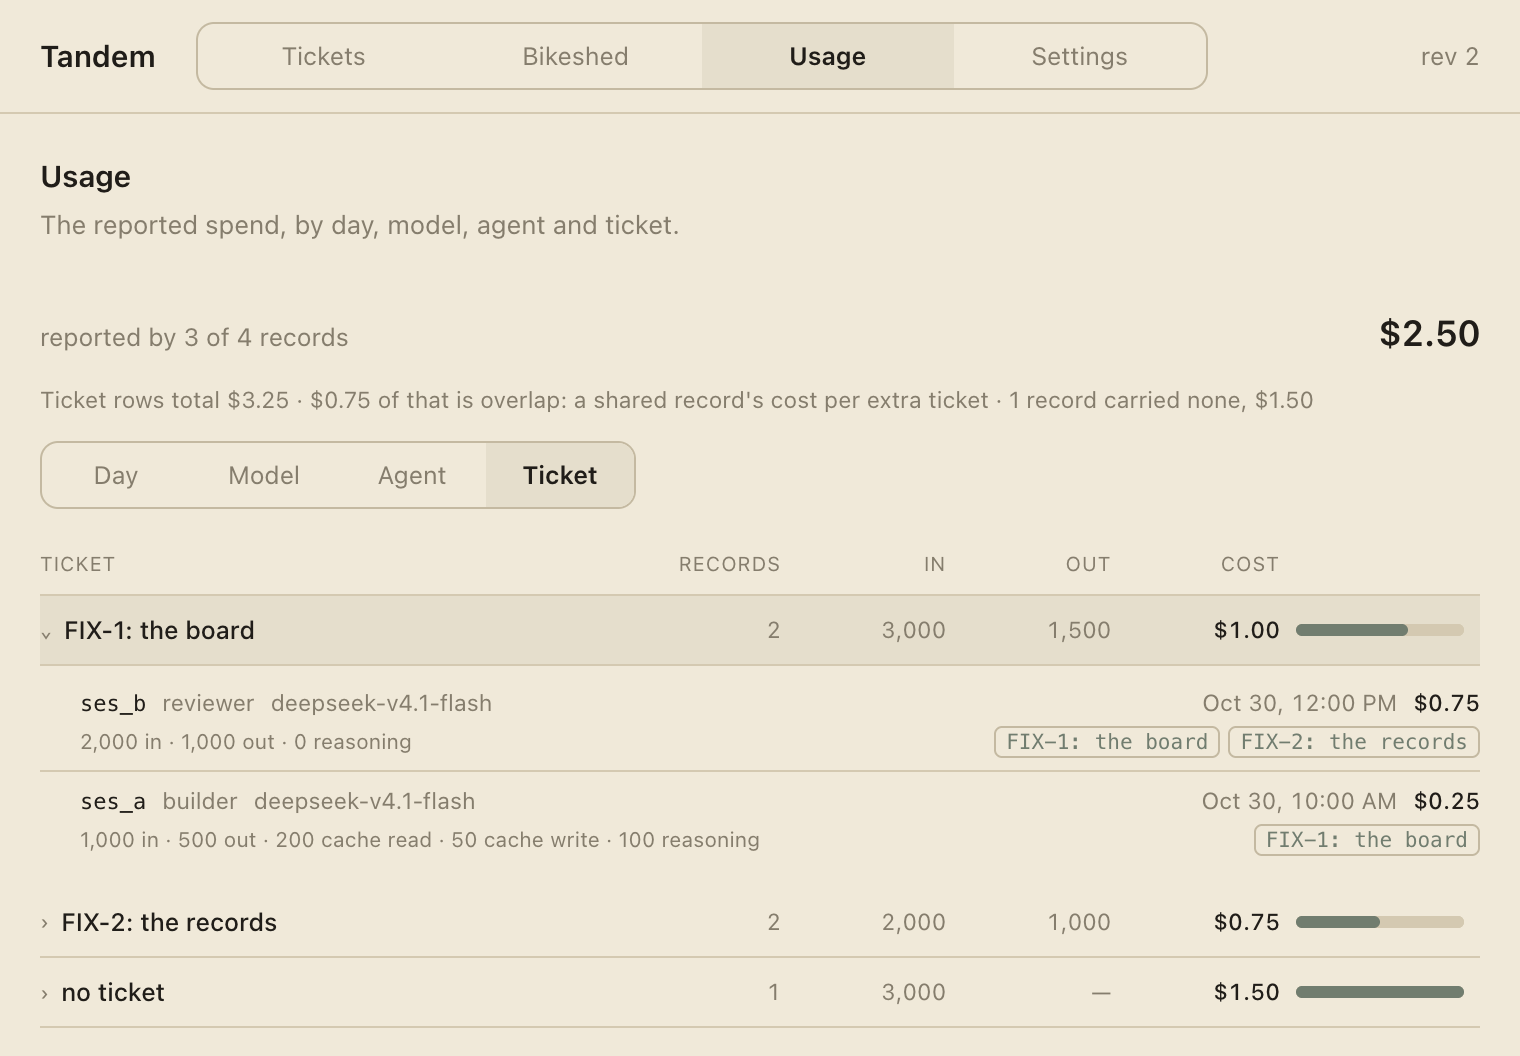
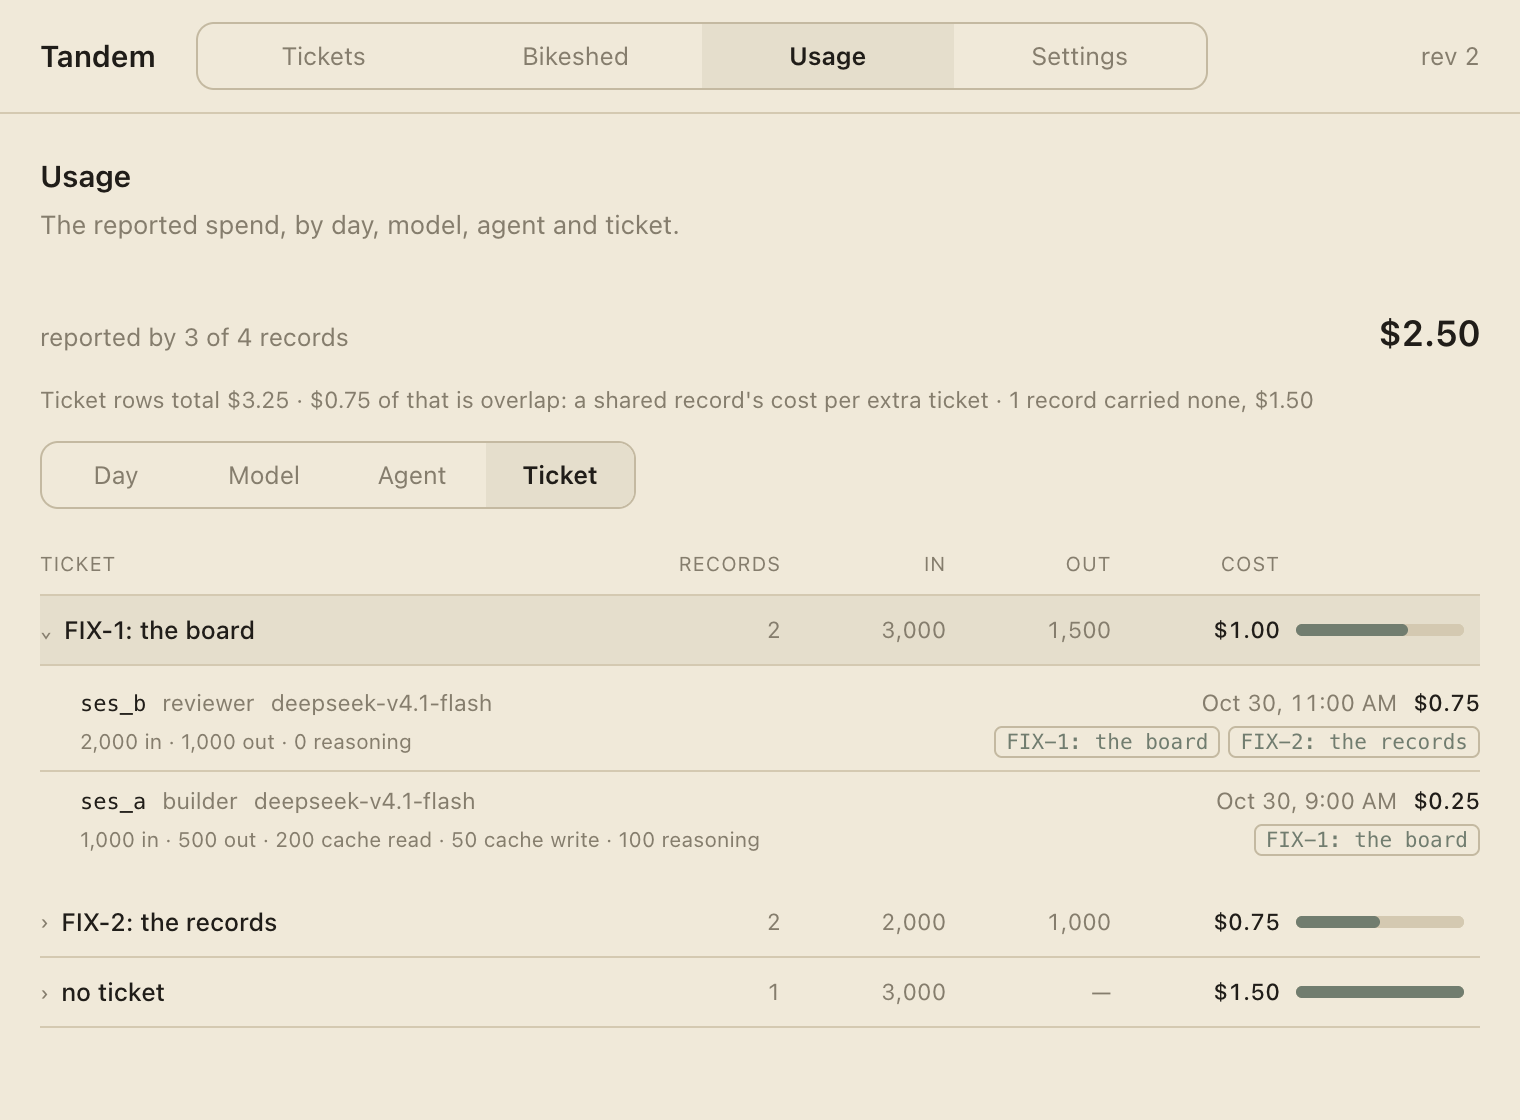
feat(shots): the Usage and Settings faces are scenes
PRT-15 and PRT-16 are on the merged base, so the surfaces the ticket names are
reachable and they get a spec and a committed picture each: the Usage face with
the ticket dimension and a row rolled down to the records behind it, and the
Settings face with the seeded paths and the doctor's eight checks. The shell
keeps its scene. Both specs assert what the picture shows, and the run rewrites
`usage-face.png` and writes `settings-face.png`.

A face taller than the window is laid out at its own height and shot whole, so
the Settings picture is the whole face rather than its first screenful.

Left to their tickets: the Tickets face (list and board, PRT-13), the ticket
sheet (PRT-17), and the Bikeshed face (tree, editor, health, PRT-14).

diff --git a/app/tests/shots/settings.shots.ts b/app/tests/shots/settings.shots.ts
@@ -1,0 +1,44 @@
+import { expect } from '@playwright/test'
+
+import { capture, openTab, test } from '../../shots/app'
+import { scene } from '../../shots/scenes'
+
+/**
+ * The Settings face a human reads: the machine's paths (the seeded home and
+ * the seeded user home's three hosts), the one theme rule, and the setup
+ * report's eight checks with their state.
+ *
+ * The paths are the seed's own, at the one fixed scratch root, so the picture
+ * is the same in any checkout. What the rule pins is that they are the seed's
+ * paths, never a human's.
+ */
+test('the settings face, over the seeded homes', async ({ app, window }) => {
+  await openTab(window, 'settings')
+
+  await expect(window.locator('.face__title')).toHaveText('Settings')
+  await expect(window.locator('.settings__heading')).toHaveText(['Paths', 'Setup'])
+
+  const facts = window.locator('.settings__fact')
+  await expect(facts.first()).toContainText('Home')
+  await expect(facts.first().locator('.settings__value')).toHaveText(/\/tmp\/tandem-shots\/Home$/)
+  await expect(facts.nth(1).locator('.settings__value')).toHaveText(/\/tmp\/tandem-shots\/Home\/bikeshed$/)
+
+  await expect(window.locator('.settings__term')).toHaveText([
+    'Home',
+    'Bikeshed',
+    'opencode',
+    'claude',
+    'agents',
+    'Theme',
+  ])
+  await expect(facts.nth(2).locator('.settings__value')).toHaveText(
+    /\/tmp\/tandem-shots\/user\/\.config\/opencode$/,
+  )
+  await expect(facts.nth(3).locator('.settings__value')).toHaveText(/\/tmp\/tandem-shots\/user\/\.claude$/)
+  await expect(facts.nth(4).locator('.settings__value')).toHaveText(/\/tmp\/tandem-shots\/user\/\.agents$/)
+
+  await expect(window.locator('.settings__checks').first().locator('.settings__check')).toHaveCount(8)
+  await expect(window.locator('.settings__action')).toHaveText(/^(Install|Repair)$/)
+
+  await capture(app, window, scene('settings'))
+})

diff --git a/app/tests/shots/usage.shots.ts b/app/tests/shots/usage.shots.ts
@@ -1,0 +1,38 @@
+import { expect } from '@playwright/test'
+
+import { capture, openTab, test } from '../../shots/app'
+import { scene } from '../../shots/scenes'
+
+/**
+ * The Usage face a human reads: the spend the records reported, the arithmetic
+ * the ticket rows carry, and one ticket row rolled down to the records behind
+ * it. Every figure is the report's own over the fixture home.
+ */
+test('the usage face, with a ticket row rolled down', async ({ app, window }) => {
+  await openTab(window, 'usage')
+
+  await expect(window.locator('.face__title')).toHaveText('Usage')
+  await expect(window.locator('.usage__coverage')).toHaveText(/^reported by \d+ of \d+ records$/)
+  await expect(window.locator('.usage__spend')).toHaveText(/^\$\d+\.\d{2}$/)
+
+  const picker = window.locator('.usage__segment')
+  await expect(picker).toHaveText(['Day', 'Model', 'Agent', 'Ticket'])
+  await expect(window.locator('.usage__table thead th').first()).toHaveText('DAY')
+
+  await window.locator('.usage__segment', { hasText: 'Ticket' }).click()
+  await expect(window.locator('.usage__table thead th').first()).toHaveText('TICKET')
+
+  const rows = window.locator('.usage__row')
+  await expect(rows.first()).toBeVisible()
+  const tickets = rows.filter({ hasNotText: 'No ticket' })
+  await expect(tickets.first()).toBeVisible()
+
+  await tickets.first().locator('.usage__label').click()
+
+  const roll = window.locator('.usage__roll')
+  await expect(roll).toBeVisible()
+  await expect(roll.locator('.usage__session').first()).toHaveText(/^ses_/)
+  await expect(roll.locator('.usage__record').first()).toContainText(/\d+ in/)
+
+  await capture(app, window, scene('usage'))
+})

diff --git a/app/shots/scenes.ts b/app/shots/scenes.ts
@@ -6,6 +6,9 @@
  * so a picture and its row cannot drift. A face adds its scene here and its
  * spec beside `tests/shots/`; the same run then writes both the PNG and the
  * README row.
+ *
+ * A kept surface whose ticket has not landed is not listed: a picture of a face
+ * frame is not a picture of the face. The list grows as the faces do.
  */
 export type Scene = {
   id: string
@@ -19,6 +22,18 @@ export const SCENES: readonly Scene[] = [
     file: 'electron-shell.png',
     description:
       'the shell at its 760 pt floor: the wordmark, the four kept tabs (Tickets, Bikeshed, Usage, Settings) and the store revision read over `rpc`',
+  },
+  {
+    id: 'usage',
+    file: 'usage-face.png',
+    description:
+      'the **Usage** face over the fixture home: the reported spend and its coverage, the ticket rows and their arithmetic, the Day/Model/Agent/Ticket picker, and a ticket row rolled down to the records behind it, each naming its session, agent, model, local start, cost, tokens and the tickets it carried',
+  },
+  {
+    id: 'settings',
+    file: 'settings-face.png',
+    description:
+      'the **Settings** face over the fixture home: the home, the bikeshed, the three agent hosts, the theme rule, the bundled and installed versions, and the doctor\'s checks each named with its state and detail',
   },
 ]
 

diff --git a/app/tests/shots/shell.shots.ts b/app/tests/shots/shell.shots.ts
@@ -7,7 +7,7 @@ import { scene } from '../../shots/scenes'
  * The shell a human opens: the wordmark, the four kept tabs and the store
  * revision the core answered over `rpc`, at the Swift window's floor.
  */
-test('the shell at its 760 pt floor', async ({ window }) => {
+test('the shell at its 760 pt floor', async ({ app, window }) => {
   await expect(window.locator('.shell__wordmark')).toHaveText('Tandem')
 
   const tabs = window.locator('.tabs .tab')
@@ -17,5 +17,5 @@ test('the shell at its 760 pt floor', async ({ window }) => {
 
   await expect(window.locator('.shell__revision')).toHaveText(/^rev \d+$/)
 
-  await capture(window, scene('shell'))
+  await capture(app, window, scene('shell'))
 })

diff --git a/docs/screenshots/README.md b/docs/screenshots/README.md
@@ -1,13 +1,58 @@
 # Screenshots
 
-The app, photographed. Each file is the running app's own window, captured in
-process (`NSApp.windows` → the key window → `cacheDisplay(in:to:)` → PNG) —
-`screencapture` has no Screen Recording permission on this Mac, so the app
-photographs itself instead.
+The app, photographed. Every picture here is the running app's own window,
+captured by a spec. `Scripts/shot.sh` photographs the Swift app and the
+Playwright suite photographs the port; the two never share a home.
 
-The tool is `Scripts/shot.sh` (with the small Objective-C rig it compiles and
-injects, `Scripts/shot.m`), and the script is the rule. No session hand-builds
-a rig; a picture is one command each:
+## The port's suite
+
+`app/tests/shots/*.shots.ts` is the rule: no session hand-builds a rig, and a
+picture is one scene of one spec. A run checks the named home, copies it to a
+scratch seed at `/tmp/tandem-shots/Home`, builds the fixture user home beside
+it (`/tmp/tandem-shots/user`, the `HOME` a Settings picture reads its agent
+hosts from), launches the built app at its 760 pt width, asserts each scene,
+writes one PNG per scene into this folder, and rewrites the table below from
+`app/shots/scenes.ts`:
+
+    cd app
+    npm ci
+    npm run binary
+    TANDEM_SHOTS_HOME=../Fixtures/port/Home npm run shots
+
+`TANDEM_SHOTS_HOME` is required, and it must resolve under the repository's
+`Fixtures/`: a run that names no home is refused, and so is `~/.tandem` or any
+path outside `Fixtures/`. The app opens the scratch copy, never the committed
+home, so no run writes into the fixture.
+
+The seed is the fixture home plus a fixed clock: the page's `Date` is pinned to
+`2026-10-30T12:00:00Z` before the first application script runs, and `TZ` is
+UTC, so a scene that renders a now-relative time renders one instant. The two
+seeded paths are fixed too, because the Settings face prints them: a run in one
+checkout writes the same bytes as a run in any other. Two things stay the
+machine's own, and no fixture can make them otherwise: the `app` row of the
+doctor report names the Tandem installed on the machine, and the PNG's pixel
+size follows the display's scale factor.
+
+A face taller than the window is laid out at its own height (the scroll
+constraint lifted, the width kept) and shot whole, so a picture of a table is
+the whole table. A failing spec fails the run, and the catalogue is rewritten
+only when every scene's picture exists, so a picture and its row cannot drift.
+
+CI runs the same command on the Linux runner under a virtual display
+(`.github/workflows/app.yml`), so a deliberately broken selector is a red job
+rather than a human reading a diff.
+
+| file | what it shows |
+| --- | --- |
+| `electron-shell.png` | the shell at its 760 pt floor: the wordmark, the four kept tabs (Tickets, Bikeshed, Usage, Settings) and the store revision read over `rpc` |
+| `usage-face.png` | the **Usage** face over the fixture home: the reported spend and its coverage, the ticket rows and their arithmetic, the Day/Model/Agent/Ticket picker, and a ticket row rolled down to the records behind it, each naming its session, agent, model, local start, cost, tokens and the tickets it carried |
+| `settings-face.png` | the **Settings** face over the fixture home: the home, the bikeshed, the three agent hosts, the theme rule, the bundled and installed versions, and the doctor's checks each named with its state and detail |
+
+## The Swift app, until the cutover
+
+The Swift app still ships until `v1.0.0` deletes it (`PRT-20`, `docs/port.md`),
+so its pictures are still taken by `Scripts/shot.sh` (with the Objective-C rig
+it compiles and injects, `Scripts/shot.m`), and this table is hand-kept:
 
     TANDEM_HOME=Fixtures/screenshots/Home Scripts/shot.sh list
     # pick a window id from the list, then:
@@ -15,24 +60,14 @@ a rig; a picture is one command each:
 
 `list` shows the running app's windows (id, size, title). The script refuses to
 run when `TANDEM_HOME` is unset or does not resolve to a home under the repo's
-own fixtures (`Fixtures/`) — never `~/.tandem`, never `~/.tandem-dev` — and it
+own fixtures (`Fixtures/`), so never `~/.tandem`, never `~/.tandem-dev`, and it
 refuses to photograph an app whose own environment is not pointed at that same
 fixture home. A refusal exits non-zero and writes nothing.
 
-`electron-shell.png` is the one exception: the port's Electron shell is not the
-Swift app, so `Scripts/shot.sh` cannot drive it. That picture is the shell's own
-in-process rig, `TANDEM_SHOT=<path.png> npm run dev` in `app/` against
-`Fixtures/port/Home`, spelled out in `app/README.md` and held to the same rule:
-a fixture home, the app's own capture, a refusal writes nothing. The port's own
-faces are photographed the same way until the Playwright suite (PRT-19) takes
-over the catalogue.
-
 | file | what it shows |
 | --- | --- |
-| `electron-shell.png` | the port's Electron shell at its 760 pt floor: the wordmark, the four kept tabs (Tickets, Bikeshed, Usage, Settings) and the store revision read over `rpc` |
-| `usage-face.png` | the port's **Usage** face over `Fixtures/port/Home`: the reported spend and its coverage, the ticket rows' arithmetic, the Day/Model/Agent/Ticket picker, and a ticket row rolled down to the records behind it, each naming its session, agent, model, local start, cost, tokens and the tickets it carried |
 | `tickets-tab.png` | the main window's **Tickets** tab: the quick-add, the Open/Done/All/Archived counts, the search field and the lane-grouped list |
-| `tickets-search-empty.png` | the same tab with a search that matches nothing — "No ticket title matches your search." |
+| `tickets-search-empty.png` | the same tab with a search that matches nothing: "No ticket title matches your search." |
 | `board.png` | the **Board** view: Status columns across, cycle lanes down, a ticket drawn where its Status and lane meet |
 | `ticket-sheet.png` | the ticket sheet: the title, the Status and lane, the description rendered from its markdown (headings, bullets, a code block), the ticket's comment log, and the composer the human writes in |
 | `ticket-sheet-source.png` | the same sheet with `Edit source` on: the stored markdown in the monospaced field, the toggle reading `Preview` |
@@ -41,12 +76,8 @@ over the catalogue.
 | `sessions-tab.png` | the main window's **Sessions** tab: the session records grouped by project, a `running` one and an `ended · succeeded` one |
 | `usage-tab.png` | the main window's **Usage** tab: the reported spend and the records' coverage, the ticket table's own arithmetic, the Day/Model/Agent/Ticket picker, and one ticket row rolled down to the records behind it |
 | `session-sheet.png` | a session record's sheet: the brief, the notes the session filed, the tickets it carried, and the times |
-| `session-sheet-ticket.png` | the **ticket sheet**, opened from a record's ticket — the record's own ticket link |
-| `session-note-open.png` | the **Bikeshed** face with the session's capture note open — the record's own note link |
+| `session-sheet-ticket.png` | the **ticket sheet**, opened from a record's ticket: the record's own ticket link |
+| `session-note-open.png` | the **Bikeshed** face with the session's capture note open: the record's own note link |
 
-Every file is shot against a scratch home (`TANDEM_HOME`) with fixture tickets and
-a fixture bikeshed — never a human's real list or real notes.
-
-The store behind them is a scratch home (`TANDEM_HOME`) with fixture tickets and
-four fixture session records, three of them carrying reported usage, not a human's
-real list.
+Every file is shot against a scratch home (`TANDEM_HOME`) with fixture tickets
+and a fixture bikeshed, never a human's real list or real notes.
